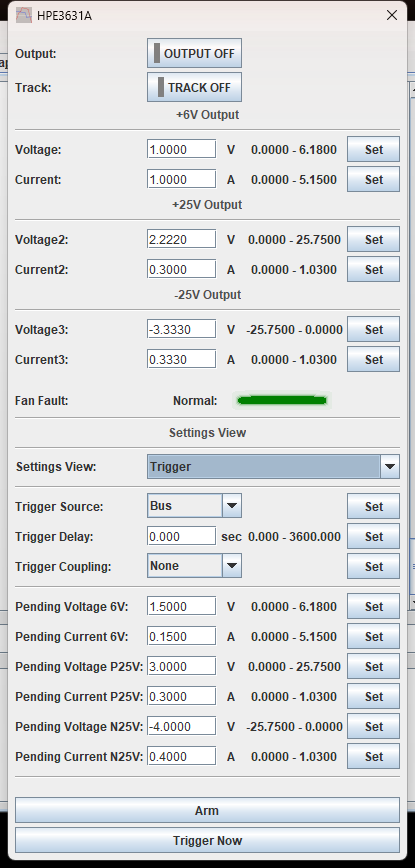
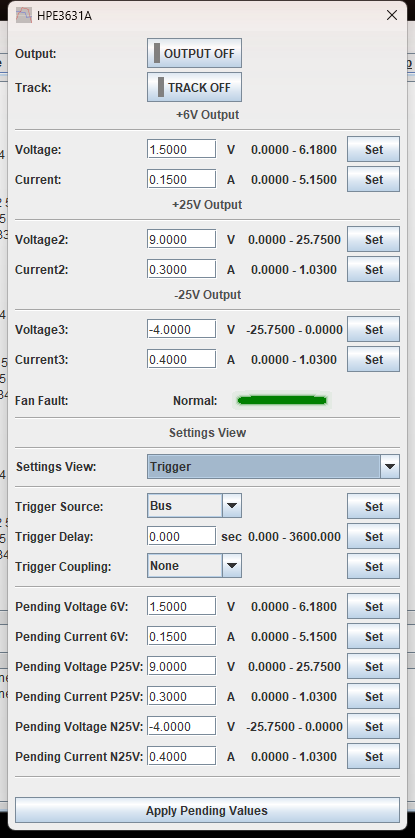
E3631A: correct the recall claim to what the bench actually measured
The published claim was that *RCL returns TRIG:DEL as 0.00 whatever was
stored. Re-run against revision 1.2 on the instrument, twice, the first
confirmed on the wire with TRIG:DEL? returning +2.00000000E+00:

    stored 2.500 s -> recalled 2.000 s
    stored 3.750 s -> recalled 3.000 s

So the delay does come back, with the fraction gone. Both points are
consistent with truncation to whole seconds, which would also explain the
earlier reading - a sub-second delay truncates to 0.000 and looks like a
hardcoded zero - but two points do not pin a rule and nothing below 1 s has
been tried, so the docs state the measurements and label the mechanism as
untested.

Corrected in the Recall State tip, the header summary, the README and
instrument-notes. The recall screenshot is dropped: it shows 0.000 after a
recall, which was true of that run but illustrates the wrong conclusion.

Also promotes the revision 1.2 Trigger capture, which shows the single
Apply Pending Values button, and removes the stale caption that described
the page as predating 1.2.

diff --git a/drivers/HP_Agilent_E3631A/README.md b/drivers/HP_Agilent_E3631A/README.md
@@ -61,19 +61,24 @@ nothing can interleave with. The cost is that **arm-now-fire-later is not offere
 this page** — which is the point of a bus trigger. To do that, stop logging and drive
 `INIT` and `*TRG` from a script.
 
-### Recall does not restore the trigger delay
+### Recall does not restore the trigger delay faithfully
 
-`*RCL` brings back `TRIG:DEL` as `0.00` whatever was stored, contrary to the manual.
+`*RCL` brings `TRIG:DEL` back changed, contrary to the manual. Two runs on the bench, the
+first confirmed on the wire with `TRIG:DEL?`:
+
+| Stored | Changed to before the recall | After `*RCL` |
+| --- | --- | --- |
+| 2.500 s | 1.000 s | **2.000 s** |
+| 3.750 s | 0.250 s | **3.000 s** |
+
 Isolated with `TRIG:SOUR` held constant; every other recalled setting — setpoints, output
-state, tracking, trigger source — restores correctly.
+state, tracking, trigger source — restores correctly, so it is the delay specifically and
+not a general failure of the trigger subsystem to restore.
 
-![Trigger delay after a recall](screenshots/e3631a-recall-trigger-delay.png)
-
-Immediately after a `Recall State`: the stored setpoints and output state are all back,
-and `Trigger Delay` reads `0.000`. Re-enter the delay by hand after every recall.
-
-*This capture predates revision 1.2 and still shows the separate `Arm` and `Trigger Now`
-buttons that 1.2 merged into `Apply Pending Values`.*
+Both measurements are consistent with the fractional part being dropped, but that is an
+inference from two points and has not been tested below 1 s. Treat the delay as unreliable
+across a recall and re-enter it by hand: nothing warns you, and a stored delay silently
+losing its fraction turns a calibrated step into a different one.
 
 ---
 
@@ -122,10 +127,6 @@ With `Trigger Source` set to `Immediate`, the transfer happens on the arm and th
 `*TRG` has nothing left to fire; check the error queue on the Diagnostics panel if you use
 that combination.
 
-*This capture predates revision 1.2. The `Arm` and `Trigger Now` buttons at the bottom
-were merged into the single `Apply Pending Values` control in 1.2, for the reason given
-above; everything else on the page is current.*
-
 ---
 
 ## Memory
@@ -135,7 +136,7 @@ Three save locations and three recall buttons, shown at the bottom of the
 
 `Save State` writes the instrument state to non-volatile memory; `Recall State` brings it
 back and refreshes the setpoints, output, tracking and trigger source. `Trigger Delay` is
-the one thing that does **not** come back — see above.
+the one thing that does **not** come back intact — see above.
 
 ---
 

diff --git a/drivers/HP_Agilent_E3631A/instrument-notes.md b/drivers/HP_Agilent_E3631A/instrument-notes.md
@@ -148,15 +148,28 @@ With `Trigger Source` set to `Immediate`, the transfer happens on the arm and th
 
 ---
 
-## Recall does not restore the trigger delay
+## Recall does not restore the trigger delay faithfully
 
-`*RCL` brings `TRIG:DEL` back as `0.00` whatever was stored, contrary to the manual. This
-was isolated with `TRIG:SOUR` held constant, so it is the delay specifically and not a
-general failure of the trigger subsystem to restore: setpoints, output state, tracking and
-trigger source all come back correctly.
+`*RCL` brings `TRIG:DEL` back changed, contrary to the manual. Measured twice, the first
+confirmed on the wire with `TRIG:DEL?` returning `+2.00000000E+00`:
 
-Re-enter the delay after a recall. Nothing warns you, and a stored delay of several seconds
-silently becoming zero turns a delayed step into an immediate one.
+| Stored | Changed to before the recall | After `*RCL` |
+| --- | --- | --- |
+| 2.500 s | 1.000 s | 2.000 s |
+| 3.750 s | 0.250 s | 3.000 s |
+
+Isolated with `TRIG:SOUR` held constant, so it is the delay specifically and not a general
+failure of the trigger subsystem to restore: setpoints, output state, tracking and trigger
+source all come back correctly.
+
+Both points are consistent with the fractional part being dropped, but two points do not
+pin a rule and nothing below 1 s has been tried. An earlier session recorded this as "comes
+back 0.00 whatever was saved"; that reading is superseded, and it is what a sub-second
+stored delay would look like if the fraction is in fact being dropped — which is the case
+still worth testing.
+
+Re-enter the delay after a recall. Nothing warns you, and a stored delay silently losing
+its fraction turns a calibrated step into a different one.
 
 ---
 
